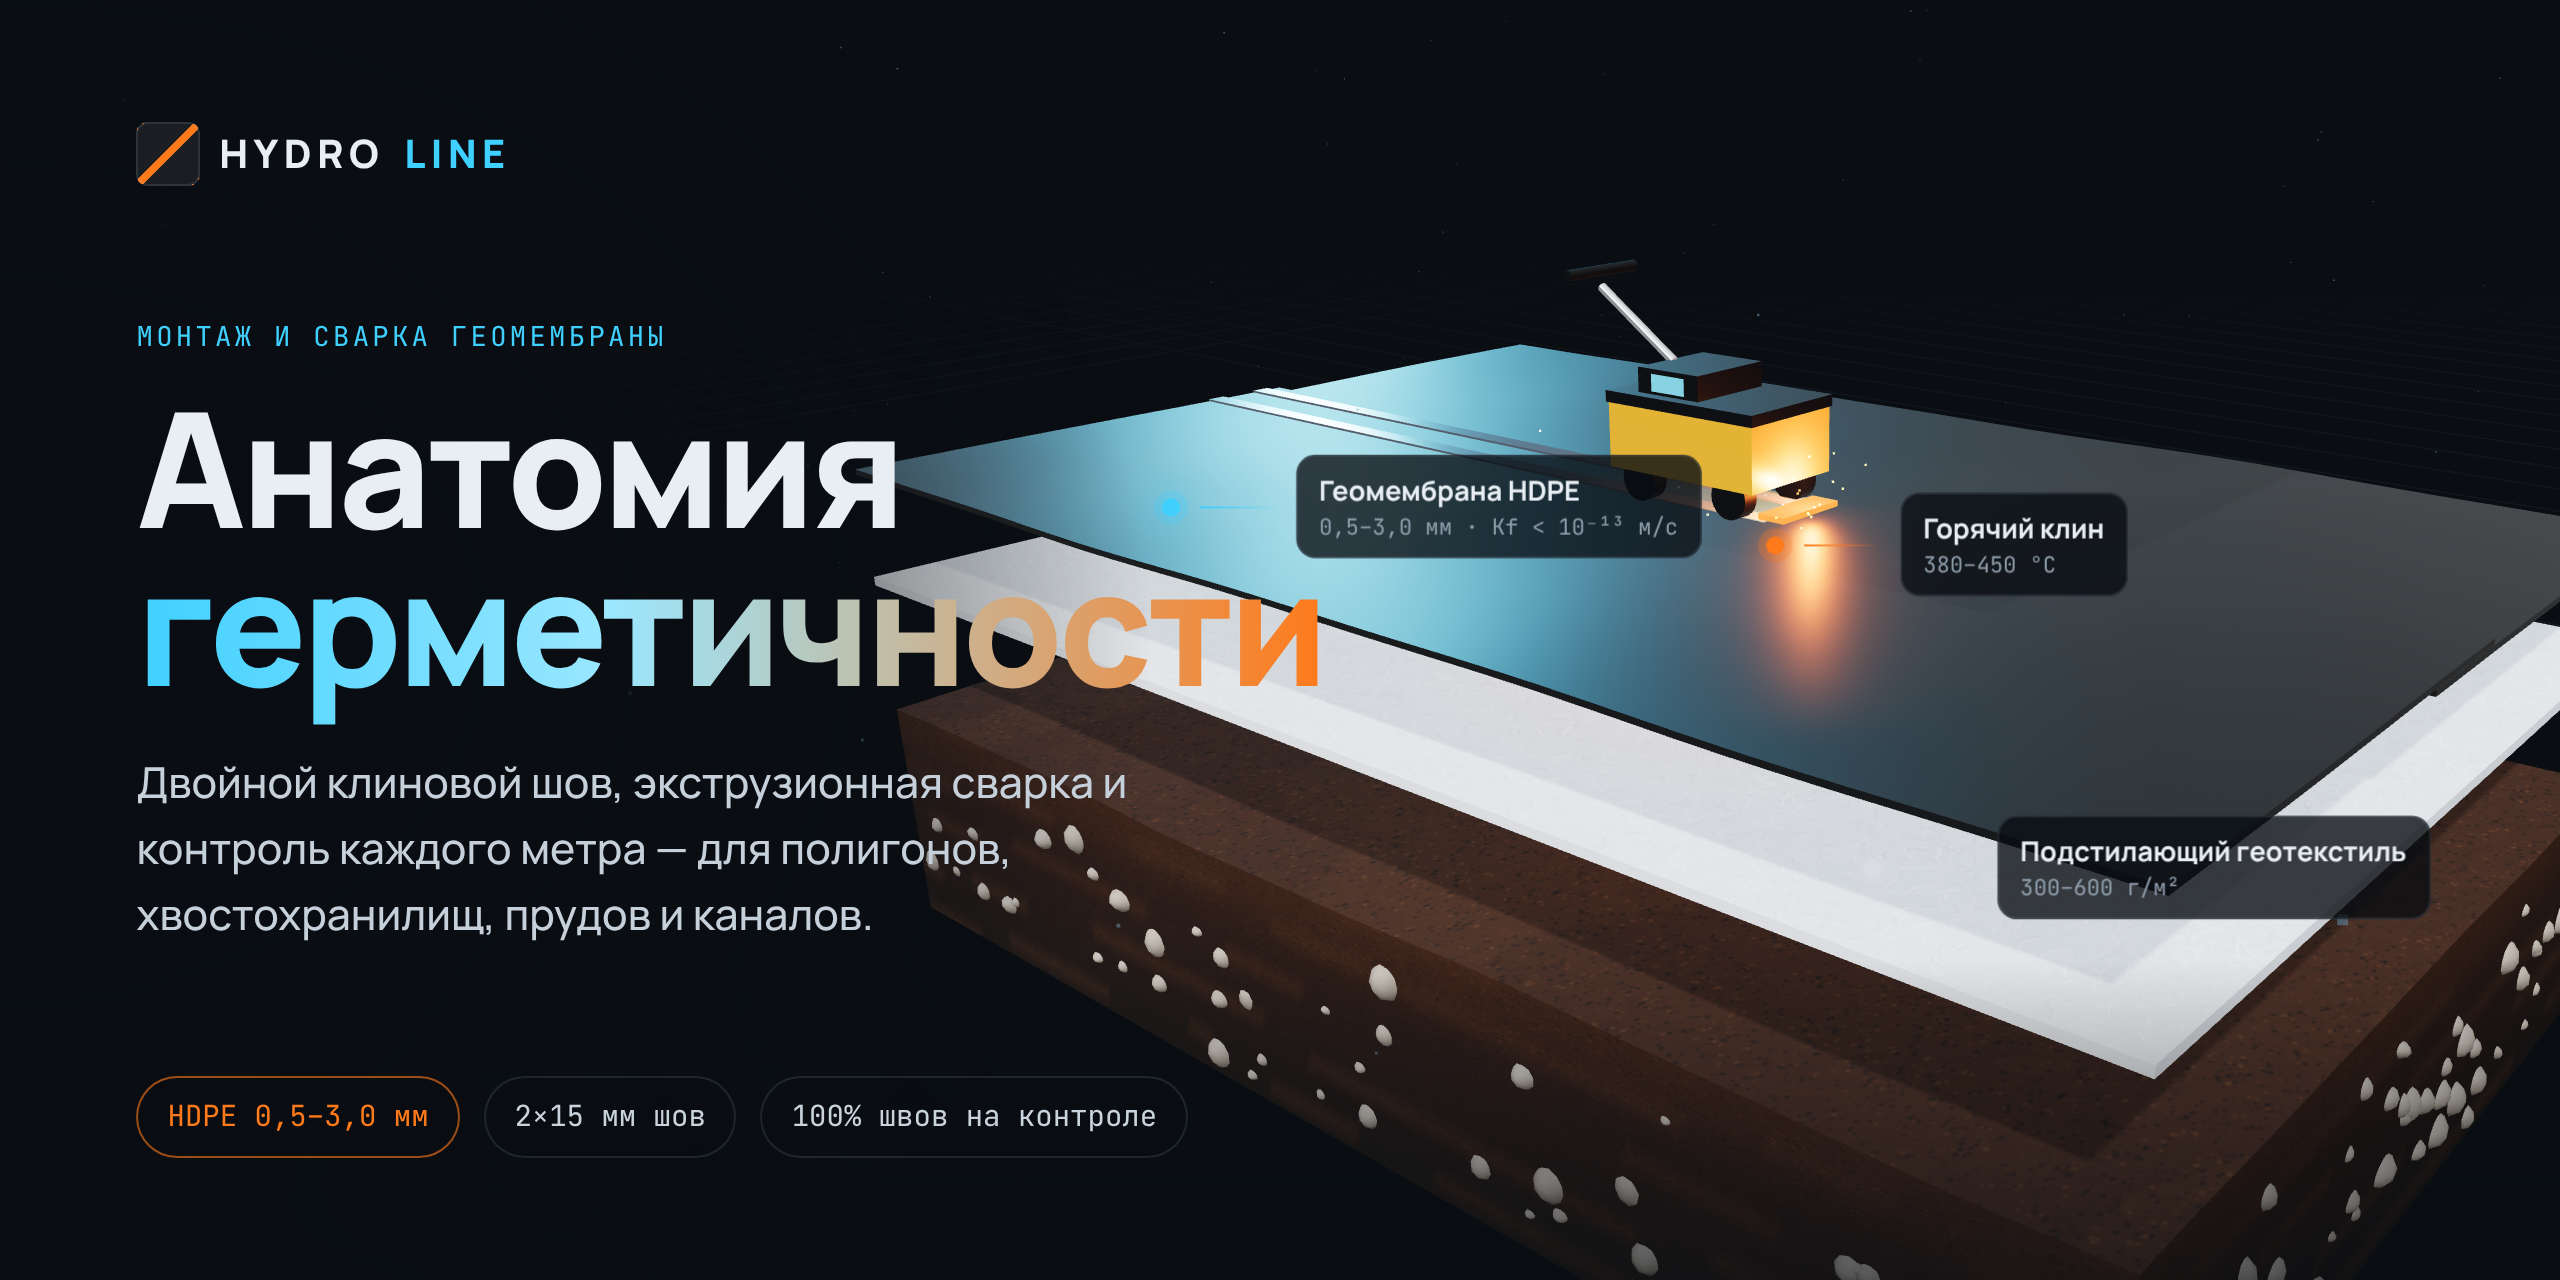
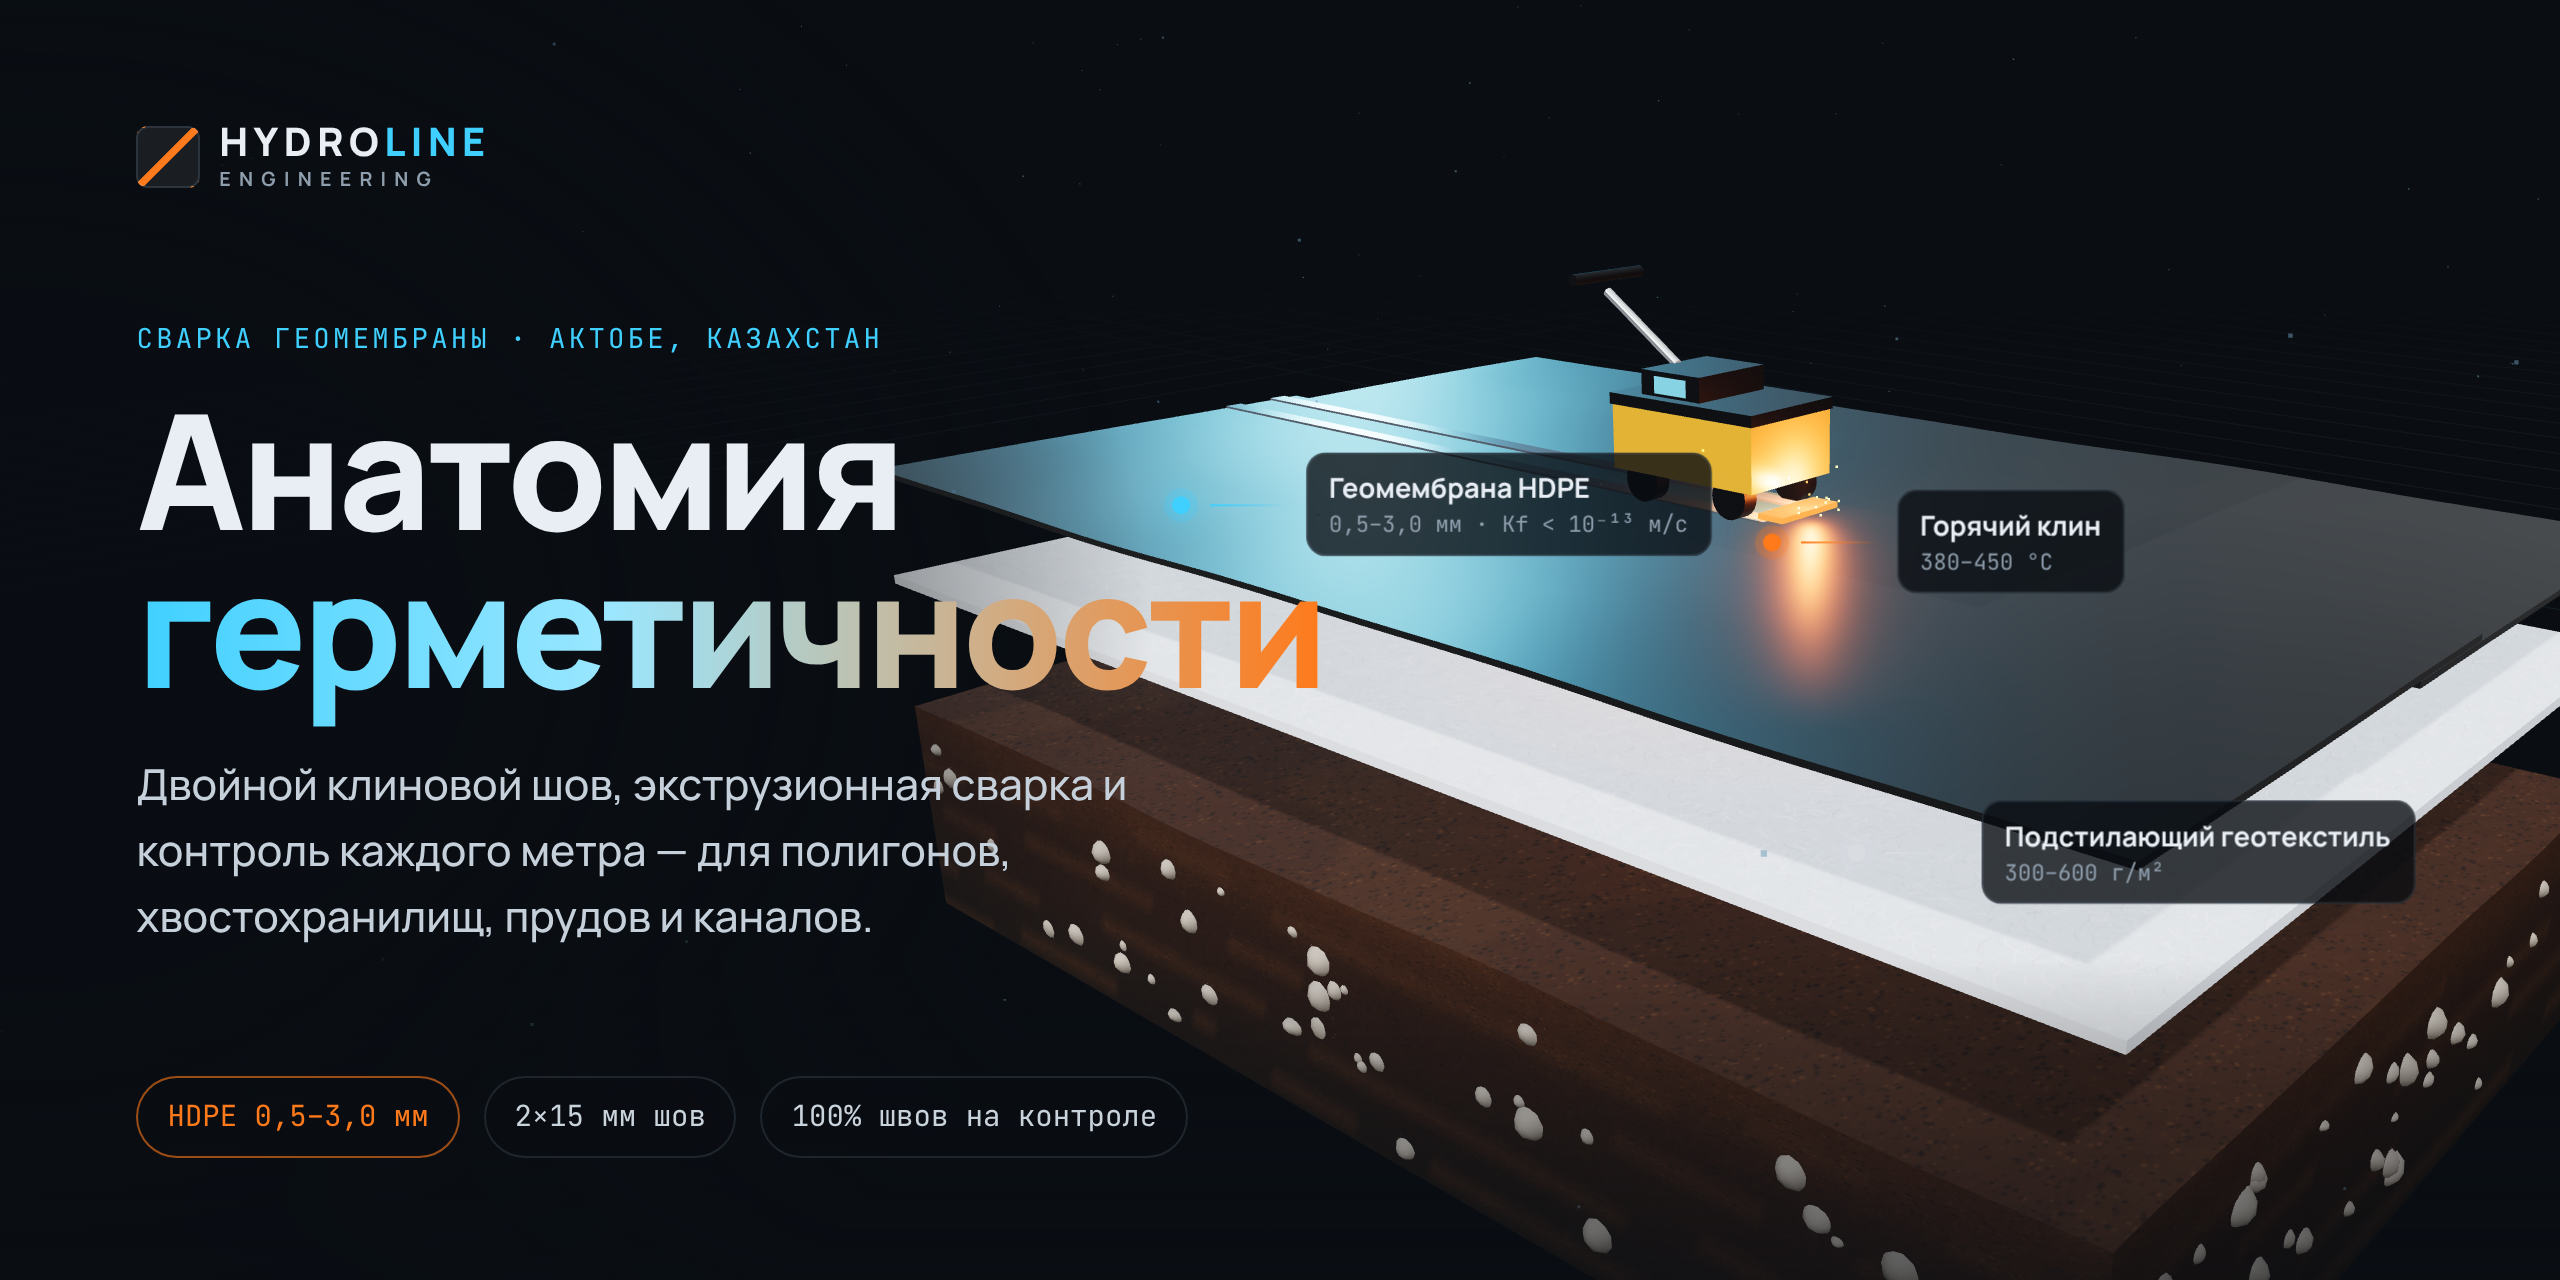
Бренд Hydroline Engineering, Актобе: логотип, тексты, контакты, schema.org, баннер
Claude-Session: https://claude.ai/code/session_01V6GFFbF7zSJ46Qhk5GhmJY

diff --git a/index.html b/index.html
@@ -3,8 +3,8 @@
 <head>
   <meta charset="utf-8" />
   <meta name="viewport" content="width=device-width, initial-scale=1" />
-  <title>Hydroline — сварка геомембраны</title>
-  <meta name="description" content="Hydroline: монтаж и сварка геомембраны HDPE/LLDPE, двойной клиновой и экструзионный шов, контроль герметичности. Полигоны, хвостохранилища, пруды, каналы." />
+  <title>Hydroline Engineering — сварка геомембраны в Актобе</title>
+  <meta name="description" content="Hydroline Engineering, Актобе: монтаж и сварка геомембраны HDPE/LLDPE по всему Казахстану, двойной клиновой и экструзионный шов, контроль герметичности. Полигоны, хвостохранилища, пруды, каналы." />
   <meta name="theme-color" content="#0a0e13" />
 
   <!-- Иконки -->
@@ -18,19 +18,31 @@
   <link rel="canonical" href="https://hydroline-zeta.vercel.app/" />
   <meta property="og:type" content="website" />
   <meta property="og:locale" content="ru_RU" />
-  <meta property="og:site_name" content="Hydroline" />
-  <meta property="og:title" content="Hydroline — сварка и монтаж геомембраны" />
+  <meta property="og:site_name" content="Hydroline Engineering" />
+  <meta property="og:title" content="Hydroline Engineering — сварка геомембраны, Актобе" />
   <meta property="og:description" content="Двойной клиновой шов, экструзионная сварка и контроль каждого метра — для полигонов, хвостохранилищ, прудов и каналов." />
   <meta property="og:url" content="https://hydroline-zeta.vercel.app/" />
   <meta property="og:image" content="https://hydroline-zeta.vercel.app/og-image.png" />
   <meta property="og:image:width" content="1200" />
   <meta property="og:image:height" content="630" />
-  <meta property="og:image:alt" content="Hydroline: 3D-разрез противофильтрационного экрана и сварочный аппарат" />
+  <meta property="og:image:alt" content="Hydroline Engineering: 3D-разрез противофильтрационного экрана и сварочный аппарат" />
   <meta name="twitter:card" content="summary_large_image" />
-  <meta name="twitter:title" content="Hydroline — сварка и монтаж геомембраны" />
+  <meta name="twitter:title" content="Hydroline Engineering — сварка геомембраны, Актобе" />
   <meta name="twitter:description" content="Двойной клиновой шов и контроль каждого метра." />
   <meta name="twitter:image" content="https://hydroline-zeta.vercel.app/og-image.png" />
 
+  <script type="application/ld+json">
+  {
+    "@context": "https://schema.org",
+    "@type": "HomeAndConstructionBusiness",
+    "name": "Hydroline Engineering",
+    "description": "Монтаж и сварка геомембраны HDPE/LLDPE, контроль герметичности швов",
+    "url": "https://hydroline-zeta.vercel.app/",
+    "image": "https://hydroline-zeta.vercel.app/og-image.png",
+    "address": { "@type": "PostalAddress", "addressLocality": "Актобе", "addressRegion": "Актюбинская область", "addressCountry": "KZ" },
+    "areaServed": { "@type": "Country", "name": "Казахстан" }
+  }
+  </script>
   <link rel="preconnect" href="https://fonts.googleapis.com" />
   <link rel="preconnect" href="https://fonts.gstatic.com" crossorigin />
   <link href="https://fonts.googleapis.com/css2?family=Manrope:wght@400;500;600;700;800&family=JetBrains+Mono:wght@400;600&display=swap" rel="stylesheet" />
@@ -49,7 +61,7 @@
   <div id="labels" aria-hidden="true"></div>
 
   <header class="nav">
-    <a href="#top" class="logo"><span class="logo-mark"></span>HYDRO<b>LINE</b></a>
+    <a href="#top" class="logo" aria-label="Hydroline Engineering"><span class="logo-mark"></span><span class="logo-text"><span>HYDRO<b>LINE</b></span><small>ENGINEERING</small></span></a>
     <nav>
       <a href="#anatomy">Анатомия</a>
       <a href="#weld">Сварка</a>
@@ -65,7 +77,7 @@
     <!-- 3D-сцены: каждая секция управляет состоянием модели -->
     <section class="scene-step hero" id="top" data-step="0">
       <div class="panel panel-hero">
-        <p class="eyebrow">Монтаж и сварка геомембраны</p>
+        <p class="eyebrow">Hydroline Engineering · Актобе</p>
         <h1>Анатомия<br /><span class="accent">герметичности</span></h1>
         <p class="lead">Проектируем, укладываем и сварим противофильтрационный экран, который не пропустит ни капли — с контролем каждого метра шва.</p>
         <div class="cta-row">
@@ -209,7 +221,10 @@
           <h2>Расскажите об объекте</h2>
           <p>Ответим в течение рабочего дня и предложим решение со сметой.</p>
           <ul class="contacts">
-            <li><span>Телефон</span><a href="tel:+70000000000">+7 (000) 000-00-00</a></li>
+            <!-- TODO: заменить заглушки на реальные контакты Hydroline Engineering -->
+            <li><span>Компания</span><b>Hydroline Engineering</b></li>
+            <li><span>Город</span><b>Актобе, Казахстан</b><em>Выезд на объекты по всему Казахстану</em></li>
+            <li><span>Телефон / WhatsApp</span><a href="tel:+70000000000">+7 (000) 000-00-00</a></li>
             <li><span>Почта</span><a href="mailto:info@hydroline.example">info@hydroline.example</a></li>
           </ul>
         </div>
@@ -236,7 +251,7 @@
 
   <footer class="footer">
     <div class="wrap">
-      <span>© Hydroline — сварка и монтаж геомембраны</span>
+      <span>© <span id="year">2026</span> Hydroline Engineering · Актобе, Казахстан</span>
       <a href="#top">Наверх ↑</a>
     </div>
   </footer>

diff --git a/style.css b/style.css
@@ -78,6 +78,8 @@ a { color: inherit; text-decoration: none; }
 }
 .logo { font-weight: 800; letter-spacing: 0.14em; font-size: 15px; display: flex; align-items: center; gap: 10px; }
 .logo b { color: var(--cyan); font-weight: 800; }
+.logo-text { display: flex; flex-direction: column; line-height: 1.05; }
+.logo-text small { font-size: 8.5px; letter-spacing: 0.42em; color: var(--muted); font-weight: 700; margin-top: 3px; }
 .logo-mark {
   width: 22px; height: 22px; border-radius: 6px;
   background: linear-gradient(135deg, #1a1e23 45%, var(--orange) 46% 54%, #1a1e23 55%);
@@ -209,7 +211,8 @@ h3 { font-size: 19px; font-weight: 700; margin-bottom: 8px; }
 .contact p { color: var(--muted); }
 .contacts { list-style: none; margin-top: 28px; display: grid; gap: 14px; }
 .contacts span { display: block; font-size: 12px; color: var(--muted); text-transform: uppercase; letter-spacing: .1em; }
-.contacts a { font-size: 20px; font-weight: 700; }
+.contacts a, .contacts b { font-size: 20px; font-weight: 700; display: block; }
+.contacts em { display: block; font-style: normal; font-size: 14px; color: var(--muted); margin-top: 2px; }
 .form { display: grid; grid-template-columns: 1fr 1fr; gap: 14px; border: 1px solid var(--line); border-radius: var(--radius); padding: 28px; background: var(--bg-2); }
 .form label { display: grid; gap: 6px; font-size: 13px; color: var(--muted); }
 .form input, .form select, .form textarea {

diff --git a/banner.html b/banner.html
@@ -26,6 +26,7 @@
         linear-gradient(0deg, rgba(10,14,19,.6), transparent 25%);
     }
     .poster .logo { font-size: 1.15em; }
+    .poster .logo-text small { font-size: .5em; }
     .poster .logo-mark { width: 1.6em; height: 1.6em; }
     .poster h1 { font-size: 4.7em; margin: 0 0 .28em; line-height: .98; }
     .poster .eyebrow { font-size: .8em; margin-bottom: 1.1em; }
@@ -64,9 +65,9 @@
   <div id="labels" aria-hidden="true"></div>
 
   <div class="poster">
-    <div class="logo"><span class="logo-mark"></span>HYDRO<b>LINE</b></div>
+    <div class="logo"><span class="logo-mark"></span><span class="logo-text"><span>HYDRO<b>LINE</b></span><small>ENGINEERING</small></span></div>
     <div>
-      <p class="eyebrow">Монтаж и сварка геомембраны</p>
+      <p class="eyebrow">Сварка геомембраны · Актобе, Казахстан</p>
       <h1>Анатомия<br /><span class="accent">герметичности</span></h1>
       <p class="lead">Двойной клиновой шов, экструзионная сварка и контроль каждого метра — для полигонов, хвостохранилищ, прудов и каналов.</p>
     </div>
